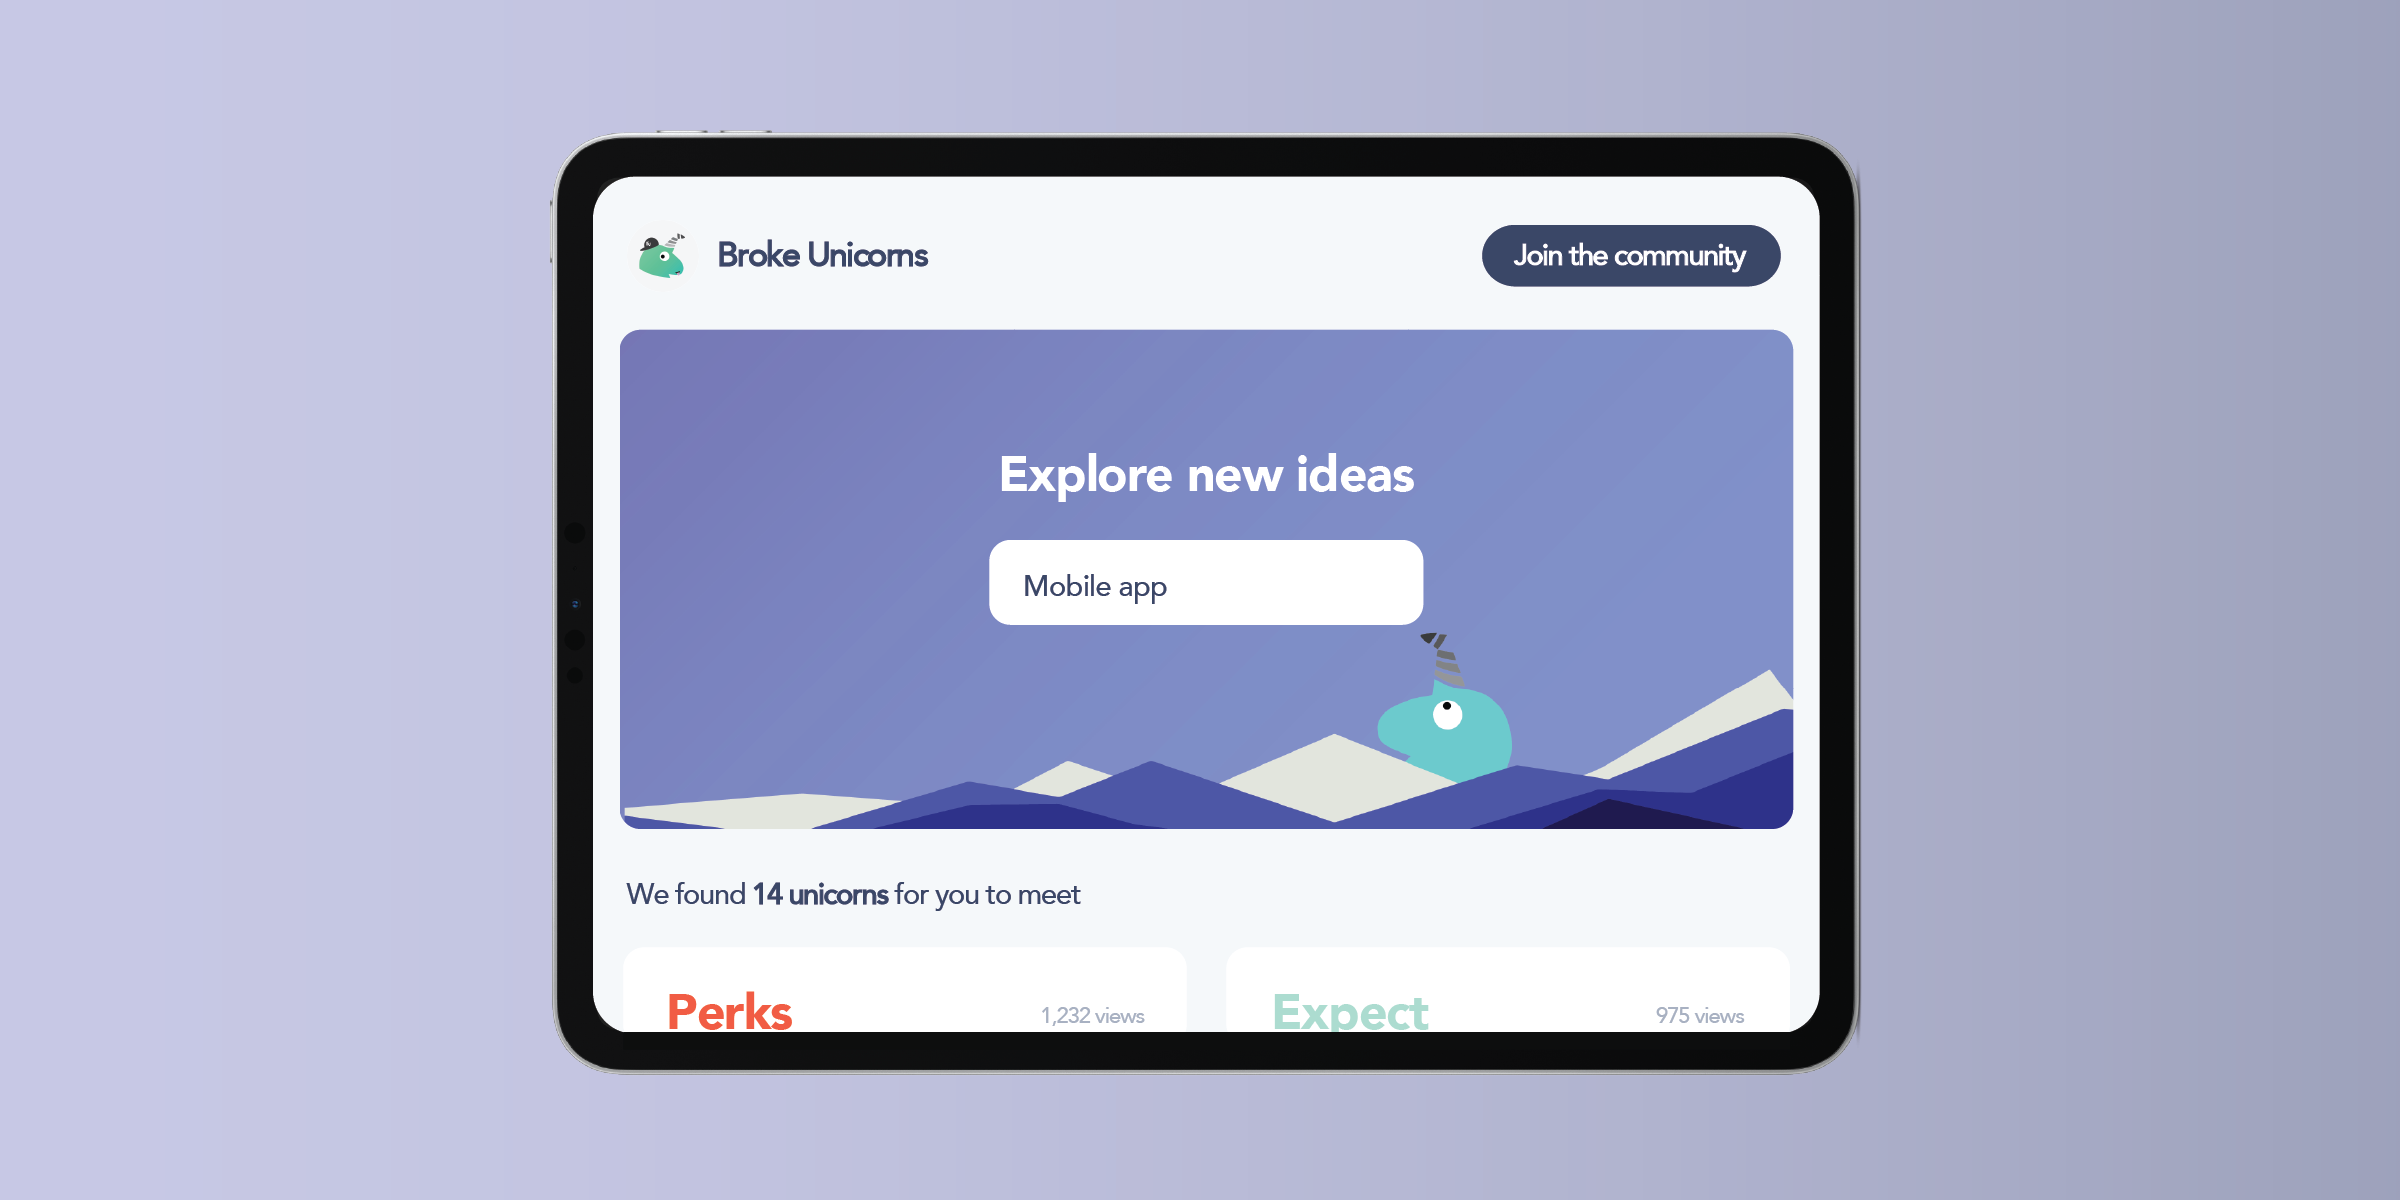
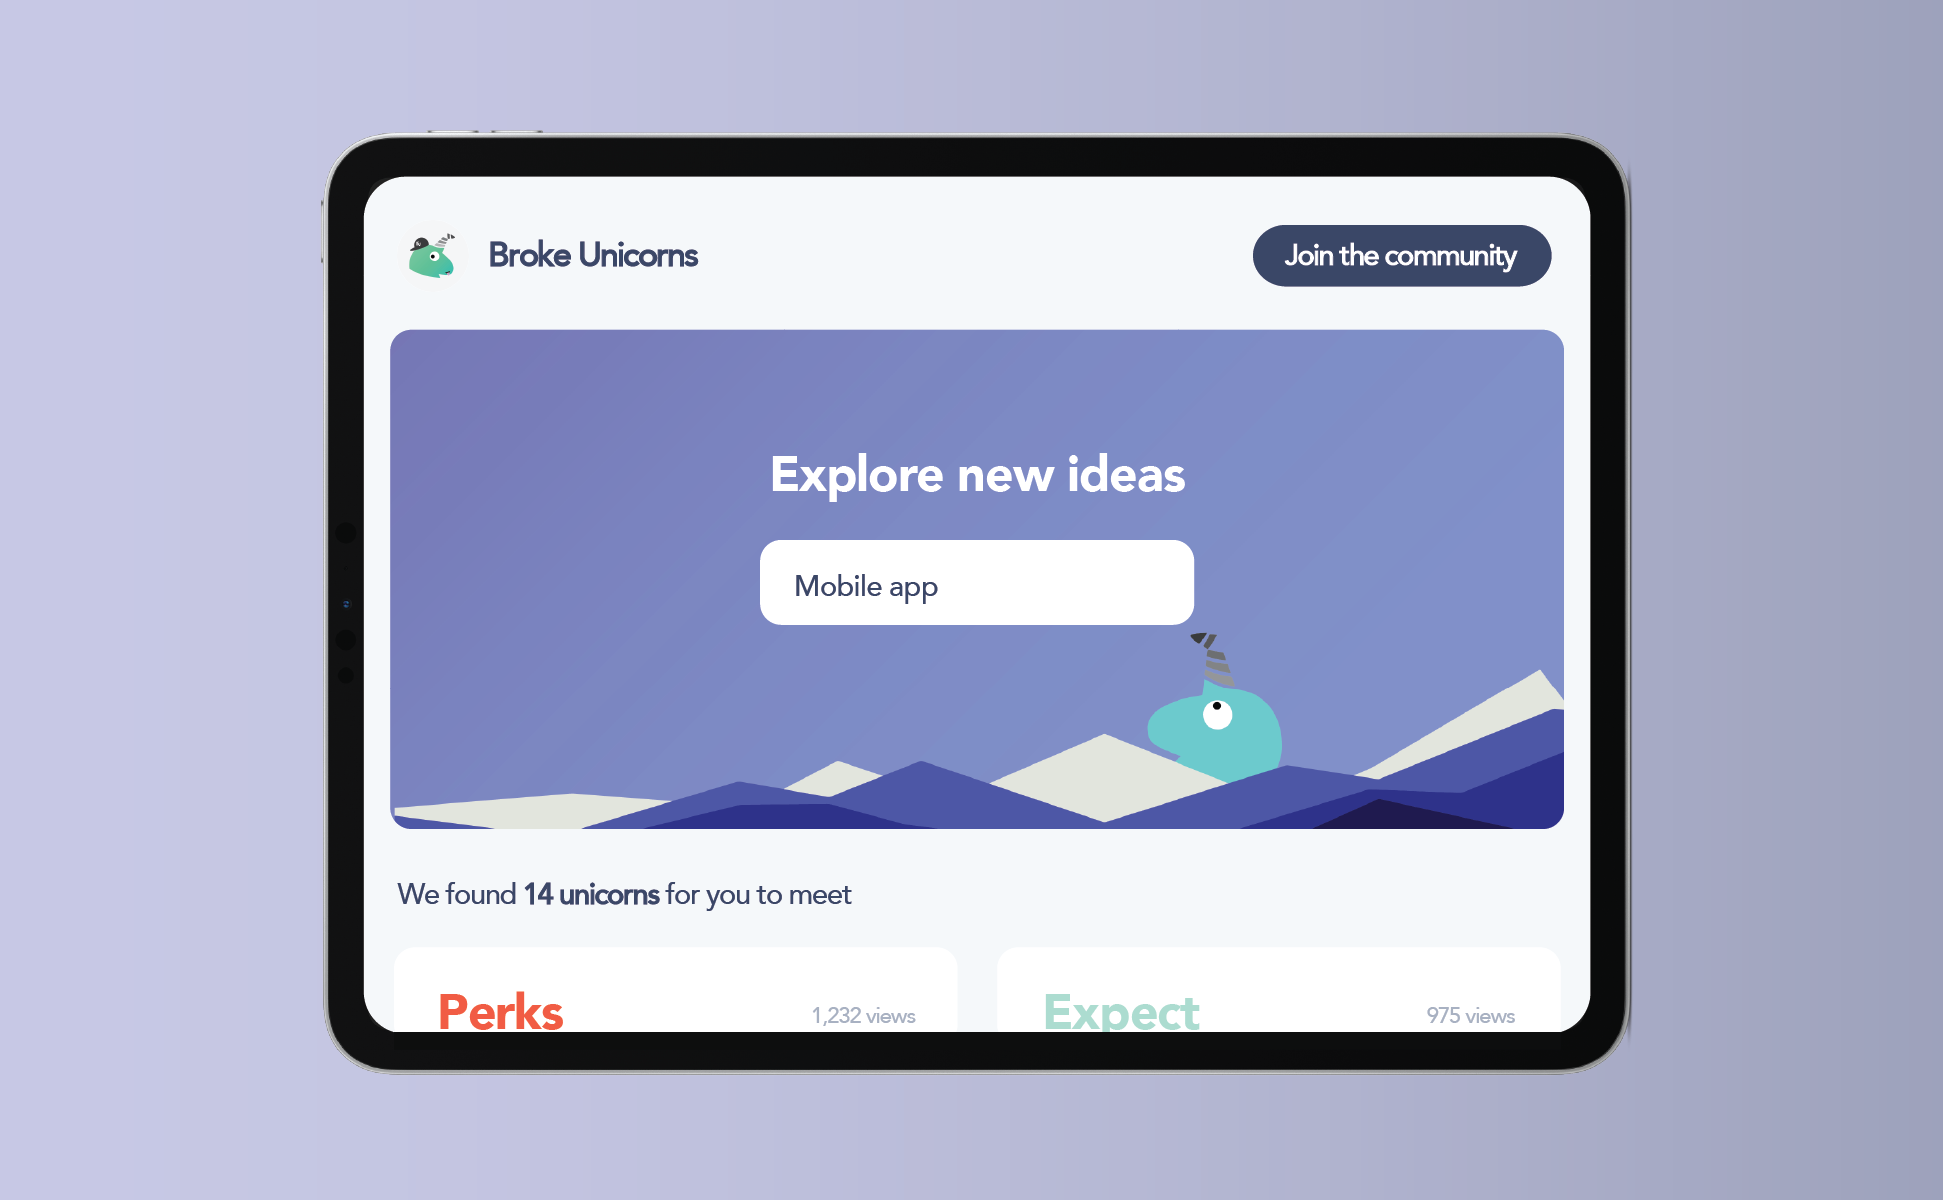
4.1

diff --git a/app3.css b/app3.css
@@ -4,11 +4,11 @@
 :root {
 
   --main-bg-color: #FFFFFF;
-  --accent-bg-color: #FAFAFA;
+  --accent-bg-color: #dadde3;
   --main-txt-color: #111111;
   --main-color: #5ba8f5;
   --main-color-dark: #498dd1;
-  --accent-txt-color: #d2d7df;
+  --accent-txt-color: #a7acb8;
   --header-footer-bg-color: #FFFFFF;
 
 }
@@ -103,6 +103,8 @@ p {
 
 	font-size: 1.2rem;
 	position: relative;
+	letter-spacing: -0.015em;
+
 }
 
 a {
@@ -365,7 +367,7 @@ a:hover {
 .intro-section .section-content .current-tag {
 
 	line-height: 1.8em;
-	border: 1px solid var(--accent-txt-color);
+	border: 1px solid var(--accent-bg-color);
 	display: inline-block;
 	margin-top: 2em;
 	padding: 0.5em 1em;
@@ -414,6 +416,11 @@ a:hover {
 	color: var(--accent-txt-color);
 }
 
+.case-study-section .section-content .content p {
+
+	line-height: 1.8em;
+}
+
 
 .case-study-section .section-content a {
 
@@ -455,8 +462,8 @@ a:hover {
 
 	padding-top: 8em;
 	padding-bottom: 8em;
-	border-top: 1px solid var(--accent-txt-color);
-	border-bottom: 1px solid var(--accent-txt-color);
+	border-top: 1px solid var(--accent-bg-color);
+	border-bottom: 1px solid var(--accent-bg-color);
 }
 
 .skill-section .section-content p {
@@ -466,7 +473,7 @@ a:hover {
 
 .timeline-section .section-content .content-row {
 
-	border-bottom: 1px solid var(--accent-txt-color);
+	border-bottom: 1px solid var(--accent-bg-color);
 	padding-bottom: 1em;
 }
 
@@ -875,6 +882,12 @@ h5 {
 	width: 50%;
 }*/
 
+  .intro-section  {
+
+	padding: 1em;
+
+}
+
 
   .intro-section .section-image {
 
@@ -896,6 +909,17 @@ h5 {
 
 	padding-top: 2em;
 
+}
+
+.case-study-section .section-content .main {
+
+	padding-bottom: 0.5em;
+}
+
+.skill-section .skill-container, .timeline-section .timeline-container {
+
+	padding-top: 2em;
+	padding-bottom: 2em;
 }
 
 

diff --git a/home3.html b/home3.html
@@ -9,7 +9,7 @@
  
 <link rel="stylesheet" href="https://stackpath.bootstrapcdn.com/bootstrap/4.2.1/css/bootstrap.min.css">
 <link rel="stylesheet" href="https://use.fontawesome.com/releases/v5.3.1/css/all.css" integrity="sha384-mzrmE5qonljUremFsqc01SB46JvROS7bZs3IO2EmfFsd15uHvIt+Y8vEf7N7fWAU" crossorigin="anonymous">
-<link rel="stylesheet" href="app2.css">
+<link rel="stylesheet" href="app3.css">
 <link rel="shortcut icon" type="image/png" href="./imgs/favicon.ico"/>
 
 </head>
